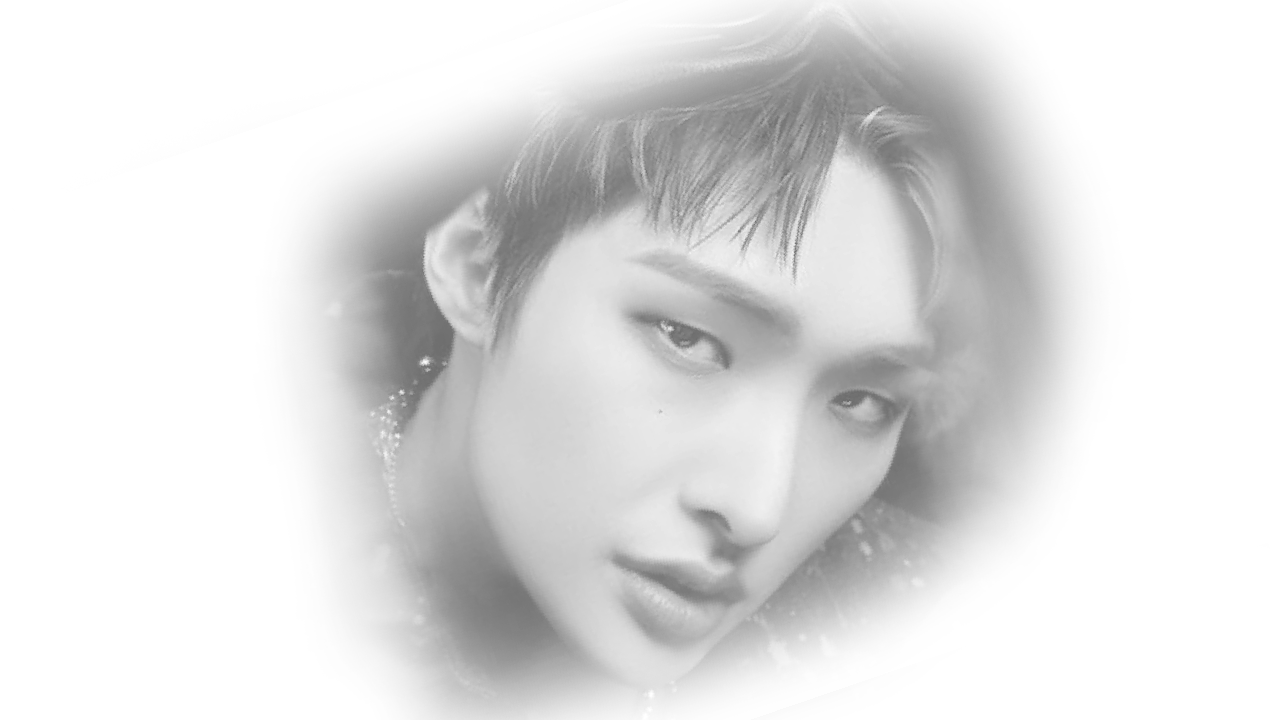
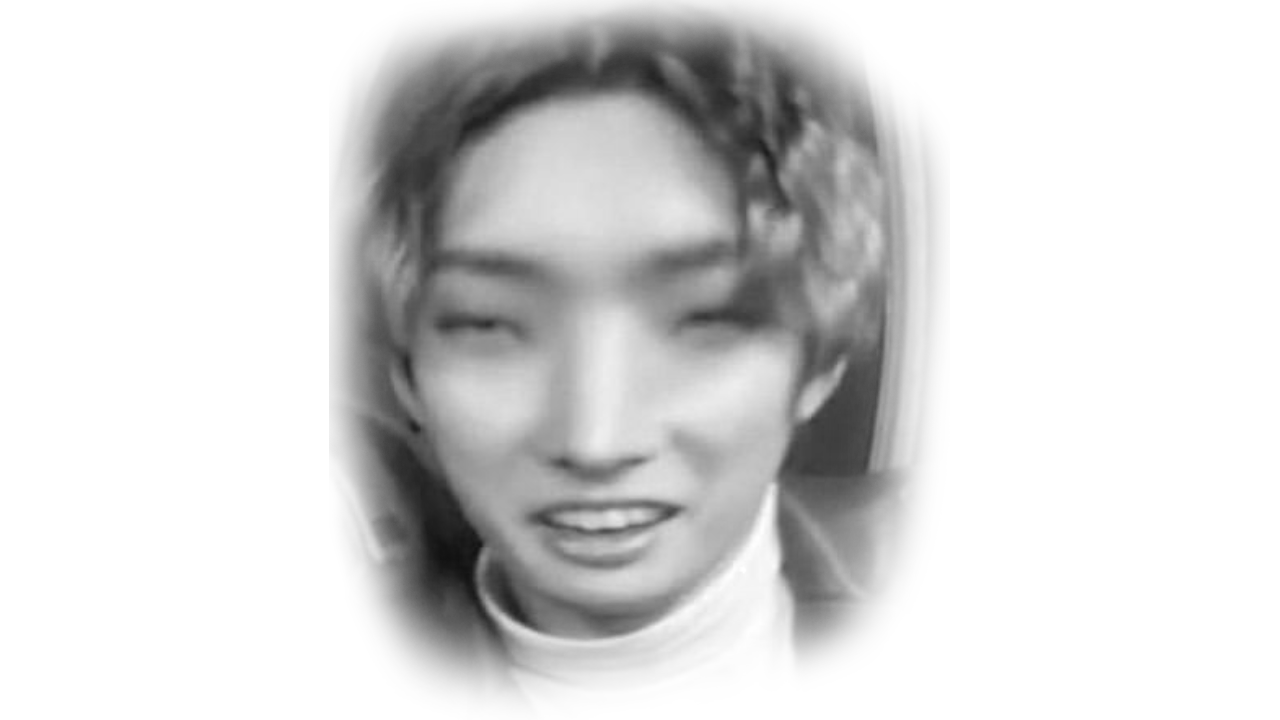
changed mingi picture and text

diff --git a/index.html b/index.html
@@ -125,7 +125,7 @@
     z-index: 1;
     opacity: 0;
     transition: opacity 0.8s ease;
-        background-size: cover;          /* This scales it to fill the viewport */
+        background-size: center;          /* This scales it to fill the viewport */
     background-position: center;     /* Centers it */
     background-repeat: no-repeat;    /* Prevents tiling */
 }
@@ -252,9 +252,9 @@
     <div class="container">
 
     <div id="stage">
-        <h1>Four more days Toni.</h1>
+        <h1>Three Mingis left.</h1>
         
-        <p class="tagline">Be Ready.</p>
+        <p class="tagline">Be Mingi.</p>
 
             <div class="countdown" id="countdown">
     <div class="time-box">
